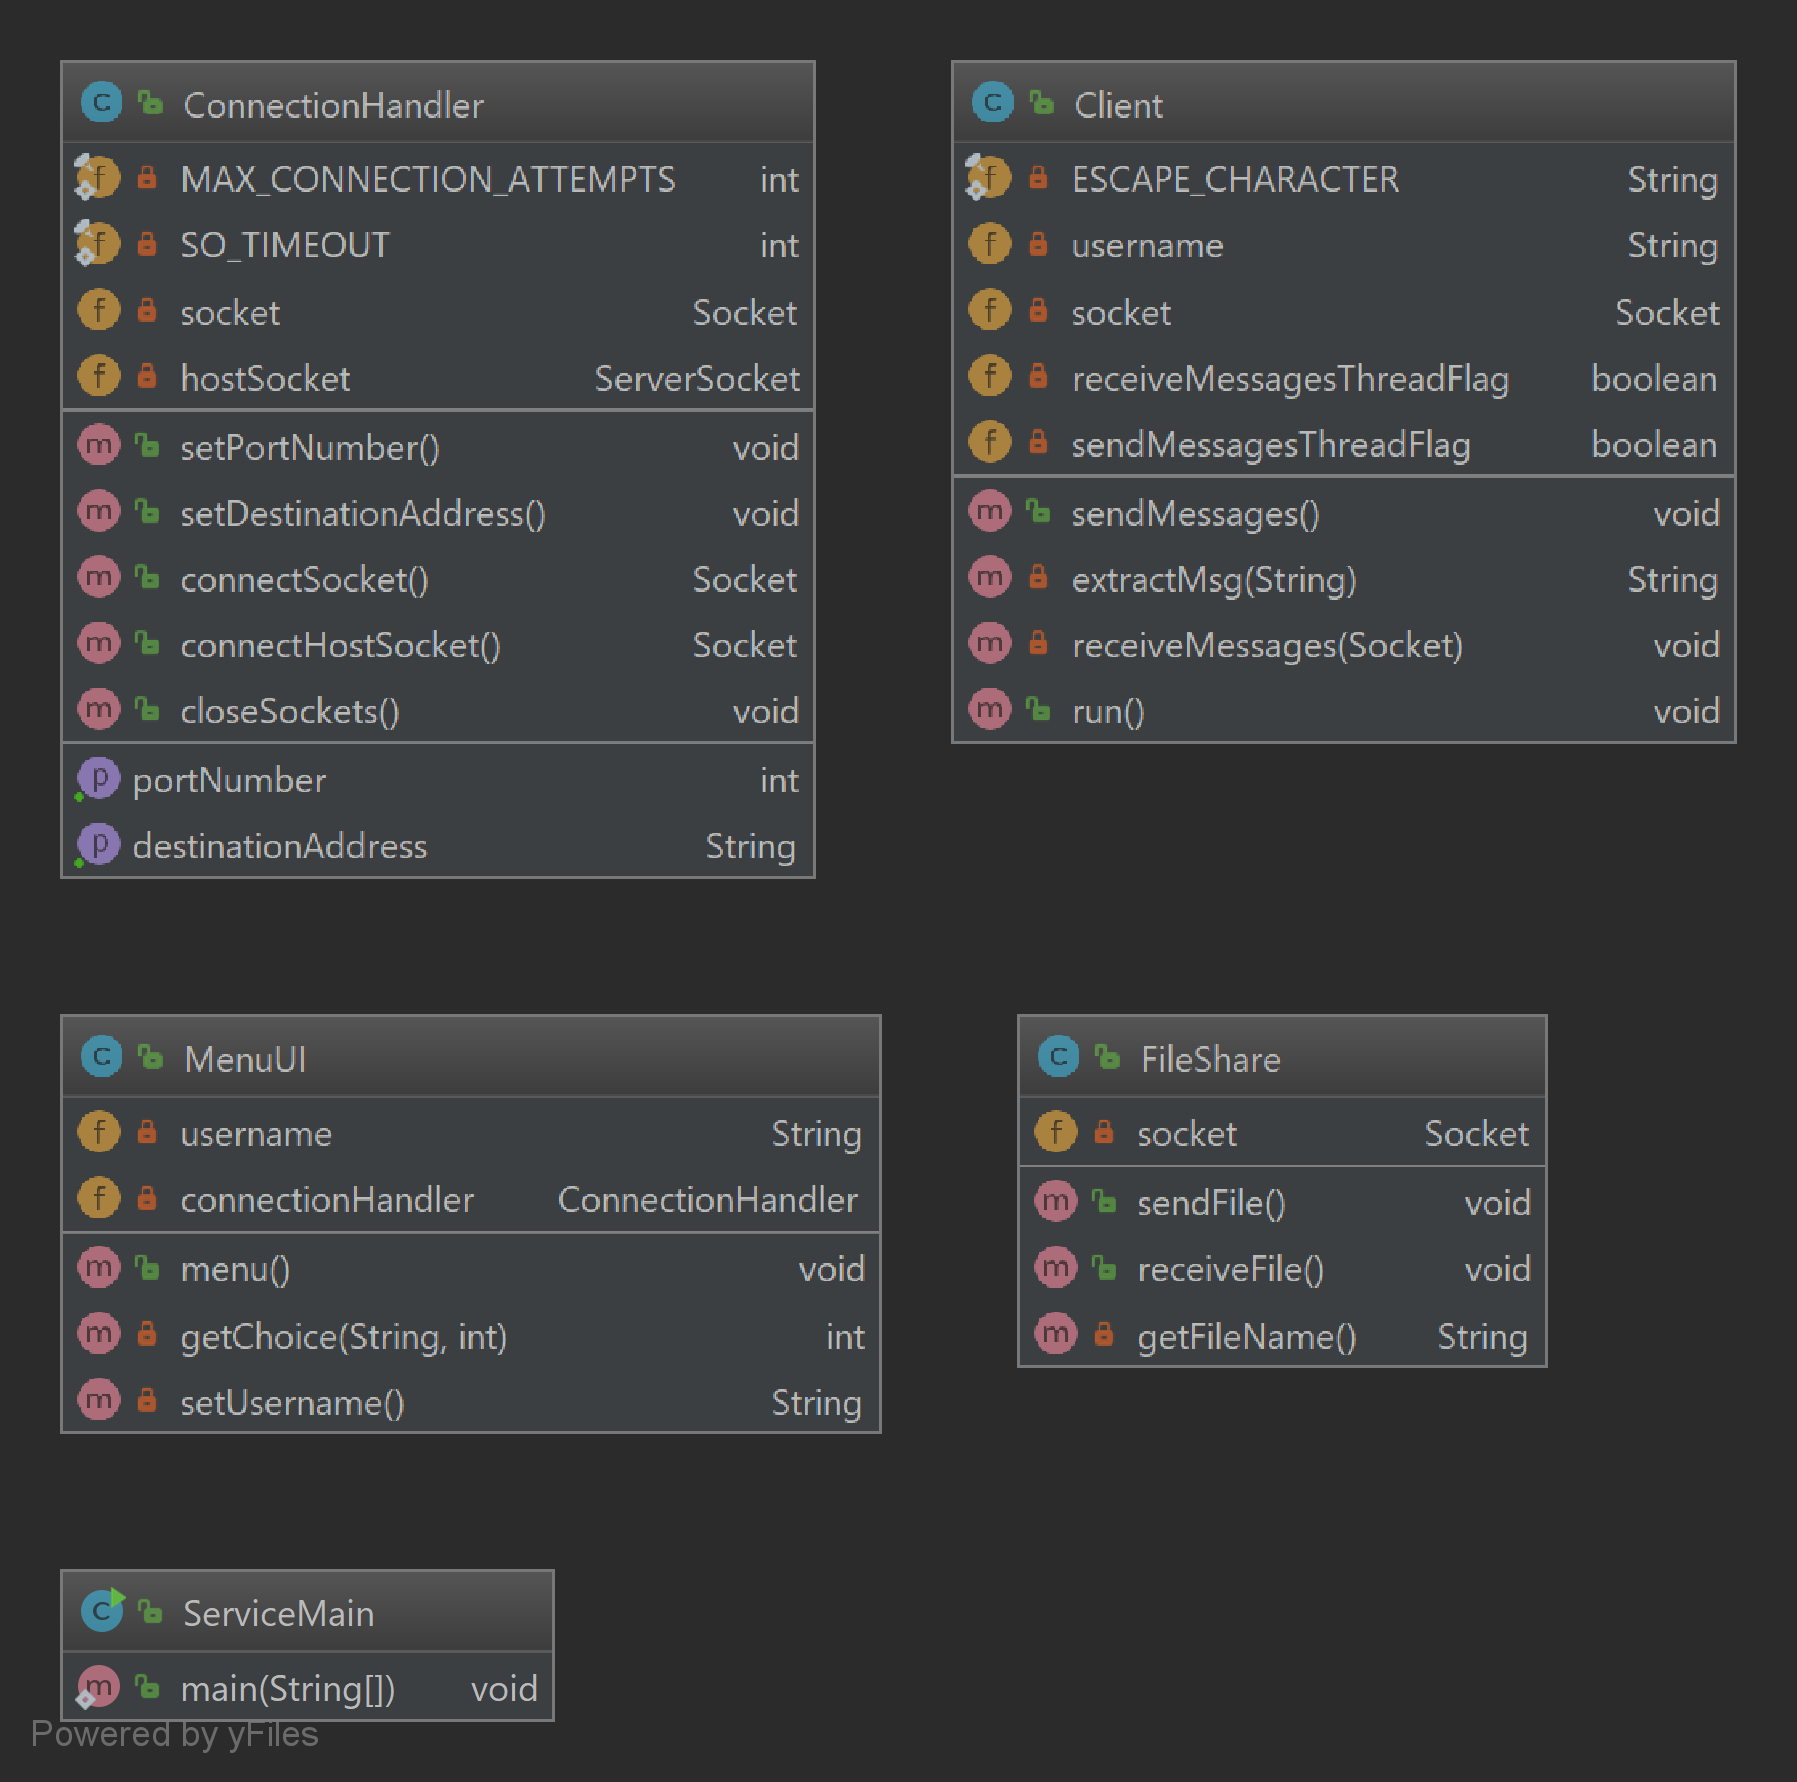
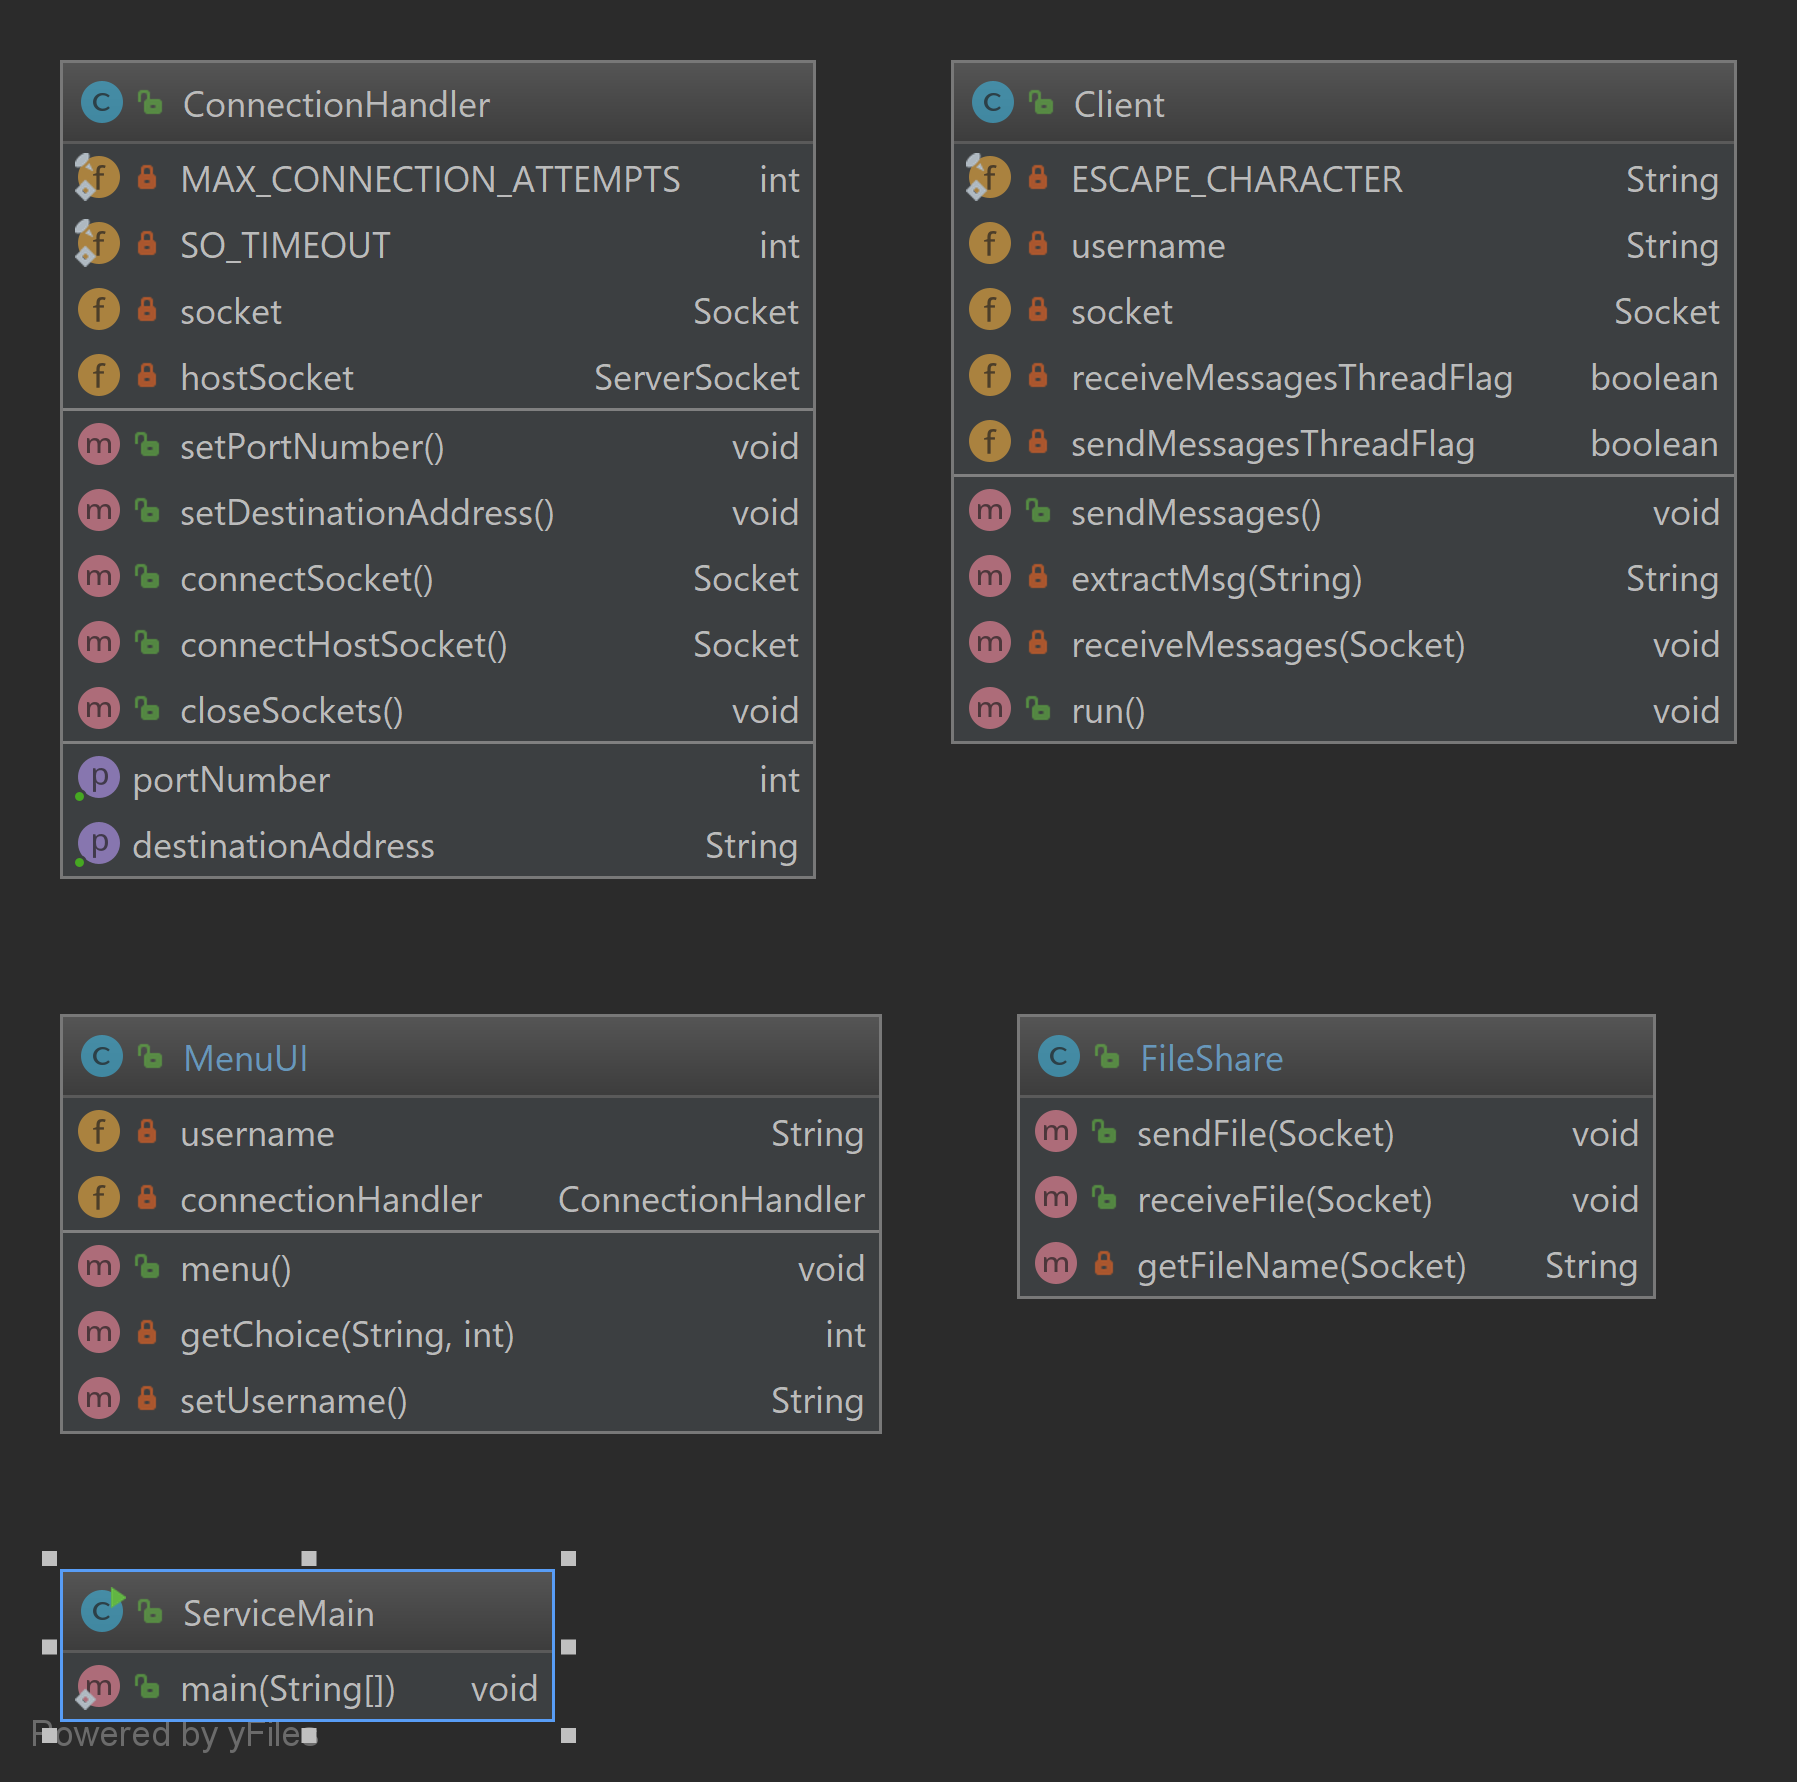
Updates

diff --git a/src/FileShare.java b/src/FileShare.java
@@ -4,10 +4,8 @@ import java.util.Scanner;
 
 public class FileShare  {
 
-    private Socket socket;
+    public FileShare() {
 
-    public FileShare(Socket socket) {
-        this.socket = socket;
     }
 
     /**
@@ -21,7 +19,7 @@ public class FileShare  {
      * 4. It sends the file over the filestream.
      *
      */
-    public void sendFile() {
+    public void sendFile(Socket socket) {
         try {
             File myFile = null;
             FileInputStream fis = null;
@@ -69,9 +67,9 @@ public class FileShare  {
      * 2. Reads the inputstream for the length specified above, creating a new file at $PROGRAM DIRECTORY/src/<filename>
      *
      */
-    public void receiveFile() {
+    public void receiveFile(Socket socket) {
         try {
-            FileOutputStream fos = new FileOutputStream(getFileName());
+            FileOutputStream fos = new FileOutputStream(getFileName(socket));
             DataInputStream dis = new DataInputStream(socket.getInputStream());
             long size = 0;
             size = dis.readLong();
@@ -101,7 +99,7 @@ public class FileShare  {
      * @return filename - a String containing the filename of the file being sent.
      * @throws IOException If something interrupts the stream.
      */
-    private String getFileName() throws IOException {
+    private String getFileName(Socket socket) throws IOException {
 
         DataInputStream dis = new DataInputStream(socket.getInputStream());
         char[] fileName = new char[dis.readInt()];

diff --git a/src/MenuUI.java b/src/MenuUI.java
@@ -66,8 +66,8 @@ public class MenuUI {
                     break;
                 case 5:
                     try {
-                        FileShare fileShare = new FileShare(connectionHandler.connectSocket());
-                        fileShare.sendFile();
+                        FileShare fileShare = new FileShare();
+                        fileShare.sendFile(connectionHandler.connectSocket());
                         connectionHandler.closeSockets();
                     } catch (ClientHasNotConnectedException e) {
                         System.out.println("Invalid Address, please check your destination before trying again...");
@@ -77,8 +77,8 @@ public class MenuUI {
                     break;
                 case 6:
                     try {
-                        FileShare fileShare = new FileShare(connectionHandler.connectHostSocket());
-                        fileShare.receiveFile();
+                        FileShare fileShare = new FileShare();
+                        fileShare.receiveFile(connectionHandler.connectHostSocket());
                         connectionHandler.closeSockets();
                     } catch (ClientHasNotConnectedException e) {
                         System.out.println("Server Socket Timed out...");
